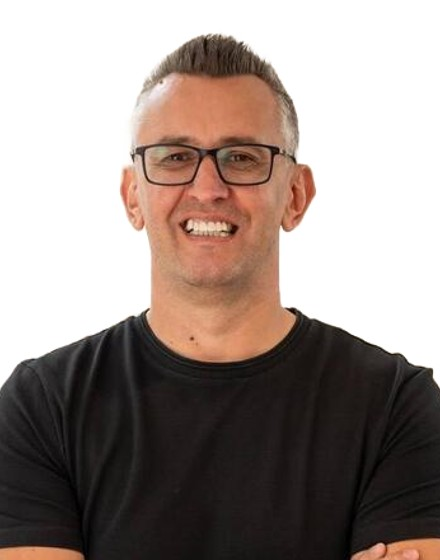
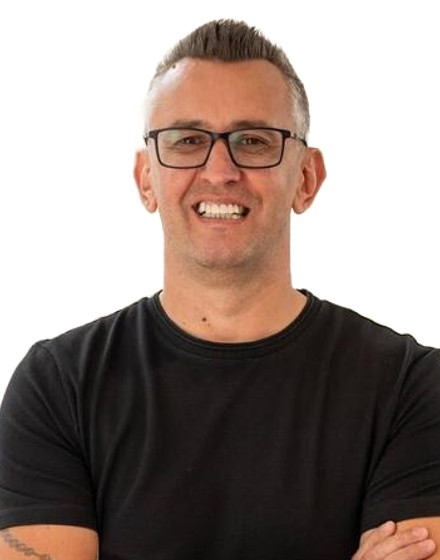
feat: swap Simon to the warehouse portrait and frame both on face size
The bookshelf shot was 600x600 with his face only 119px across, so any
usable crop UPSCALED at 1.41x and looked soft next to Emil. The warehouse
shot is 862x1024 with a 264px face, so the same crop DOWNSCALES at 0.64x.
That is the difference between softening detail and discarding it.

FRAMING NOW FOLLOWS THE FACE, NOT THE SILHOUETTE. The old rule matched
subject width, which held only while both photos shared a pose — the new
one has Simon's elbows spread far wider, so matching shoulder widths made
his head visibly smaller in the card. Face height is now pinned to 30% of
the frame and the top of the face to 17% from the top edge, so scale and
vertical position are both fixed and the next headshot either of them
sends lands correctly with no hand-tuning. Emil is re-cut under the same
rule rather than left on the old one.

assets/founders/simon.jpg is replaced by the new original, kept as the
source for regeneration. The pipeline is now three documented steps:
scripts/face-rect.swift, scripts/portrait-on-white.swift,
scripts/frame-portrait.mjs.

Verified against a live index.html at 1180 and 390 — both images load,
alt text intact.

diff --git a/scripts/face-rect.swift b/scripts/face-rect.swift
@@ -1,0 +1,20 @@
+// facerect.swift — print the face bounding box, in pixels, top-left origin.
+//
+// Framing by SUBJECT WIDTH breaks across poses: Simon's warehouse photo has his
+// elbows spread far wider than Emil's, so matching shoulder widths made his head
+// noticeably smaller. The eye compares faces, not silhouettes, so the face is
+// what the crop should be normalised on.
+import Foundation
+import Vision
+import CoreImage
+
+let p = CommandLine.arguments[1]
+guard let img = CIImage(contentsOf: URL(fileURLWithPath: p)) else { exit(1) }
+let req = VNDetectFaceRectanglesRequest()
+try VNImageRequestHandler(ciImage: img, options: [:]).perform([req])
+guard let f = (req.results?.max(by: { $0.boundingBox.height < $1.boundingBox.height })) else {
+    FileHandle.standardError.write("no face\n".data(using: .utf8)!); exit(1)
+}
+let W = img.extent.width, H = img.extent.height
+let b = f.boundingBox              // normalised, bottom-left origin
+print("\(Int(b.minX * W)) \(Int((1 - b.maxY) * H)) \(Int(b.width * W)) \(Int(b.height * H))")

diff --git a/scripts/portrait-on-white.swift b/scripts/portrait-on-white.swift
@@ -12,10 +12,10 @@
 //   swift scripts/portrait-on-white.swift <in.jpg> <out.png> <hex-bg|none>
 //
 // This produced assets/founders/{emil,simon}-white.jpg from the .jpg originals
-// beside them, which are kept as the source. After running, crop to 4:5 (the
+// beside them, which are kept as the source. Then frame it with scripts/frame-portrait.mjs, which crops to 4:5 (the
 // .founder-portrait frame is 220x280 with object-fit: cover, so a square would
-// be cropped a second time by the browser) and save as JPEG, not PNG — the
-// background is opaque, and PNG cost 362KB where JPEG costs 51KB.
+// be cropped a second time by the browser) and writes JPEG, not PNG — the
+// background is opaque, and PNG cost 362KB for the pair where JPEG costs 51KB.
 
 import Foundation
 import Vision
